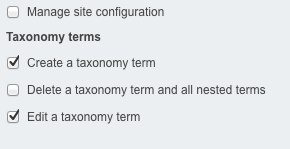
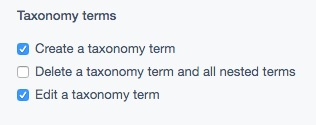
DOCs update taxonomy userdocs
A number of updates to the userdocs, including new screenshots, reference to new features such as taxonomy types, and example content.

diff --git a/docs/en/userguide/index.md b/docs/en/userguide/index.md
@@ -5,7 +5,9 @@ summary: Add and edit simple taxonomies in the CMS.
 
 ## In this section:
 
-* Taxonomy usage, creation and removal
+* Taxonomy usage
+* Taxonomy terms and types
+* Taxonomy creation and removal
 * Permissions
 
 ## Before we begin:
@@ -14,44 +16,39 @@ summary: Add and edit simple taxonomies in the CMS.
 
 # Taxonomy usage
 
-This module provides a raw skeleton for maintaining taxonomies in the CMS. The interface for linking between the other
-objects in the CMS and the taxonomy terms can be provided in a programmatic manner depending on the requirements. This
-could for example be accomplished through the usage of the `GridField` in the CMS.
+This module provides a raw skeleton for maintaining taxonomies in the CMS. Taxonomies are used to group content, making it easy to find related pieces of information. By default, the module provides the interface described below to create and manage taxonomies, using Taxonomy Terms and Taxonomy Types.
+
+## Taxonomy terms and types
+
+The Taxonomy Term is the equivalent of the taxonomy itself - it serves to provide it's name, and as a holder of all the taxonomy's types. For example, a taxonomy term called 'News' could have multiple taxonomy types such as 'National', 'International', and 'Sport'. These help make your content easier to find by refining the focus.
 
 ## Taxonomy creation
 
-The taxonomies are maintained through the *Taxonomies* section of the CMS.
+To create a taxonomy, navigate to the **_Taxonomies_** section.
 
-The top-level element of the taxonomy is the equivalent of the taxonomy itself - it serves to provide it's name, and as
-a holder of all the taxonomy's terms. Terms can be infinitely nested, and any term can have multiple child terms.
+The list that appears contains all existing taxonomies - there could be many in parallel. If the list is empty, you will want to create a Taxonomy Type first. To do so, navigate to the **_Taxonomy Types_** tab, click **_Add Taxonomy Type_**, specify the name (e.g. "News") and click **_Create_**
 
-To create a taxonomy, go to the *Taxonomies* section. The list that appears contains all existing taxonomies - there
-could be many in parallel. Click *Add taxonomy term* (remember, the top level term is equivalent of the taxonomy),
-specify the name (e.g. "Plants") and press *Save*. You have just created a taxonomy.
-
-To create first layer of terms within the taxonomy, switch to the *Children* tab. Press the green *Add* button again,
-and this time create "Vegetables". Switch to *Children* tab, and nest another term underneath: "Carrot". You have just
-created a three-level hierarchy of "Plants > Vegetables > Carrot".
+To create first layer of terms within the taxonomy, switch to the **_Taxonomy Terms_** tab. Click **_Add Taxonomy Term_** and this time create "National". Switch to the **_Children_** tab, and nest another term underneath: (e.g. "Weather"). You have just
+created a three-level hierarchy of "News > National > Weather".
 
 ![Example of taxonomy](_images/taxonomies-terms.jpg)
 
-You can easily navigate around the hierarchy by using breadcrumbs at the top as you would with any `GridField` in
-SilverStripe CMS. Click on "Vegetables", and you will be able to add more first-level children.
+You can easily navigate around the hierarchy by using breadcrumbs at the top as you would with other areas in
+SilverStripe CMS.
 
 ## Taxonomy removal
 
-The taxonomies can be recursively removed. To remove entire taxonomy, you can click the red "X" next to one of the items
-listed in the *Taxonomies* section. All terms belonging to it will be removed.
+The taxonomies can be recursively removed. To remove an entire taxonomy, you can click the button **_More options_** which is shown as an ellipses icon and choose **_Delete_**. All terms belonging to it will be removed.
 
-You can also remove parts of the taxonomy tree - just descend into the children terms, and clikck the red "X" next to
+You can also remove parts of the taxonomy tree - just descend into the children terms, and use the **_More options_** button next to
 the top-level item of the subtree to be removed.
 
 ## Permissions
 
 ![New group permissions](_images/taxonomies-permissions.jpg)
 
-Site administrator can specify permissions around taxonomies. There are three new permissions that can be set on groups:
+Site administrator can specify permissions around taxonomies. There are three permissions that can be set on groups:
 
-* *Edit a taxonomy term*: allows members of the group to update the taxonomy details (e.g. *Name*).
-* *Delete a taxonomy term and all nested terms*: allows to delete items recursively.
-* *Create a taxonomy term*: allows adding new terms to existing taxonomies.
+* **_Create a taxonomy term_**: allows adding new terms to existing taxonomies
+* **_Delete a taxonomy term and all nested terms_**: allows to delete items recursively.
+* **_Edit a taxonomy term_**: allows members of the group to update the taxonomy details
